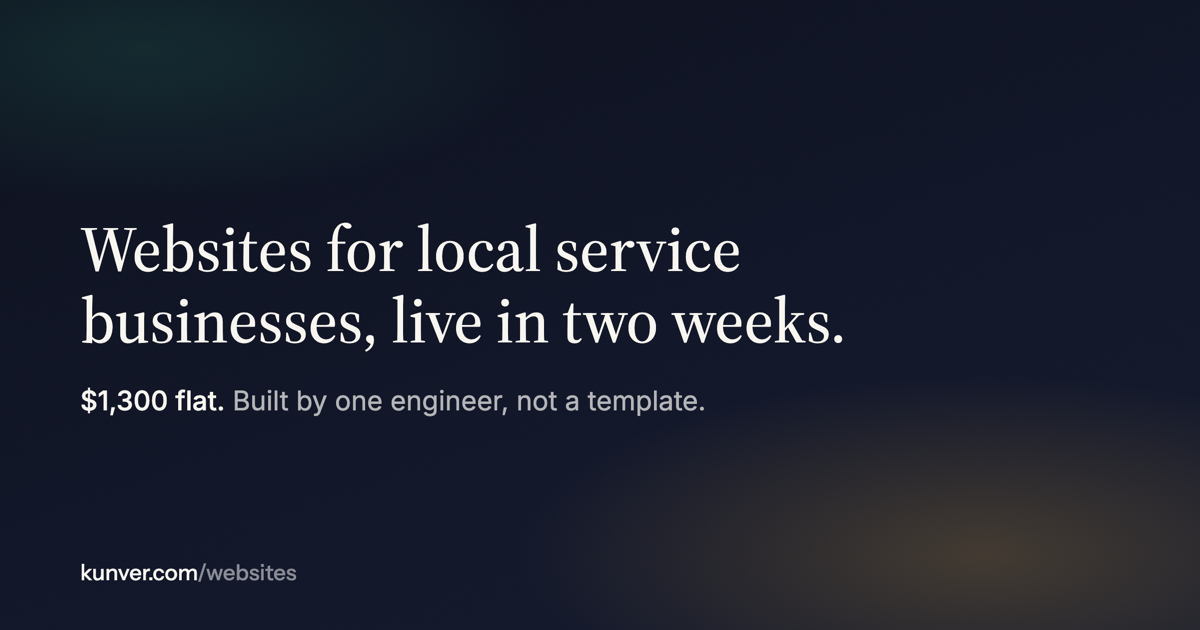
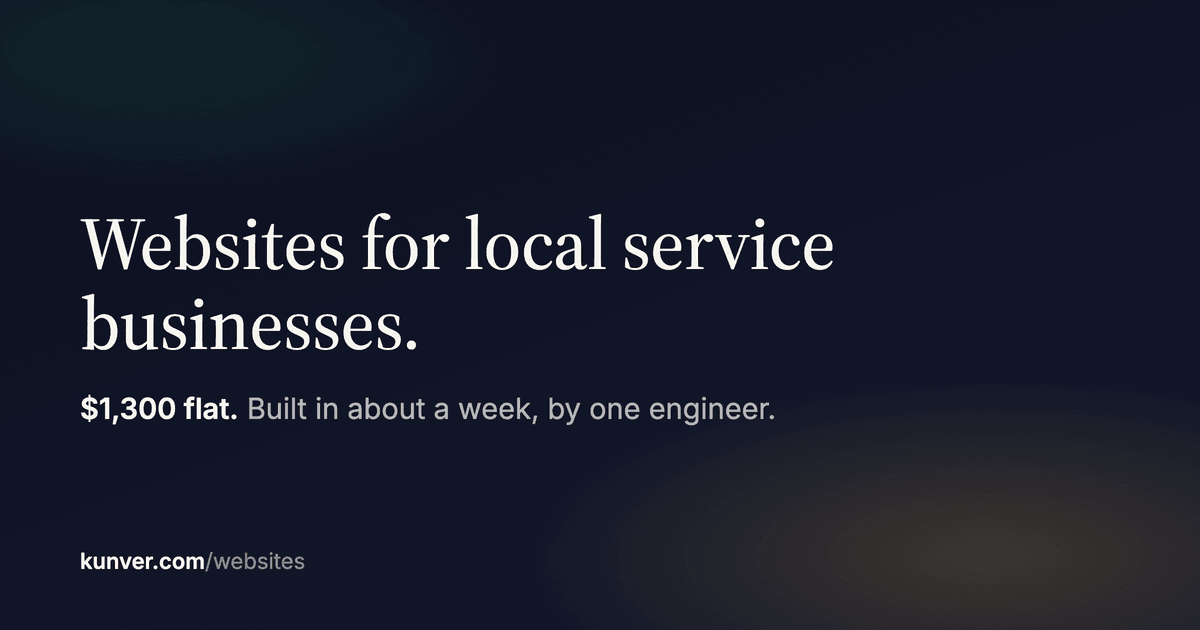
Regenerate the /websites OG image without the two-weeks claim
The claim was removed from every page and from the OG alt text, but it was
still rendered into og-websites.png, so every social share kept promising
it. The image was built by a throwaway script in /tmp, which is why there
was nothing in the repo to update when the copy changed.

The generator now lives in scripts/ with the compression folded in, so the
next copy change is one command instead of a rediscovery. Same design, new
subline carrying the build-time claim rather than a delivery date.

Also compresses the card from 593KB to 50KB.

Changed region(s): [[0.0617, 0.3317, 0.7092, 0.573], [0.0617, 0.6032, 0.6475, 0.6937], [0.0617, 0.8746, 0.2775, 0.9349]]

diff --git a/src/app/websites/layout.jsx b/src/app/websites/layout.jsx
@@ -13,7 +13,7 @@ export const metadata = {
     url: 'https://www.kunver.com/websites',
     type: 'website',
     siteName: 'Keshav Kunver',
-    images: [{ url: '/og-websites.png', width: 1200, height: 630, alt: 'Websites for local service businesses. $1,300 flat.' }],
+    images: [{ url: '/og-websites.png', width: 1200, height: 630, alt: 'Websites for local service businesses. $1,300 flat, built in about a week.' }],
   },
   twitter: {
     card: 'summary_large_image',

diff --git a/docs/ai/CURRENT_PLAN.md b/docs/ai/CURRENT_PLAN.md
@@ -555,3 +555,31 @@ not "directions", because the link is a location search rather than
 turn-by-turn navigation.
 
 Build passes, lint 0 errors, 0 em dashes, no overflow at 390 or 1440.
+
+
+## Round 15 (Claude, 2026-09-17): the OG image still said two weeks
+
+Keshav caught this. Rounds 5-9 removed the claim from every page and from the
+OG *alt text*, but public/og-websites.png had "live in two weeks" rendered
+into the pixels, so every social share still promised it.
+
+Root cause worth noting: the image was generated by a throwaway script in
+/tmp, so there was nothing in the repo to grep or update when the copy
+changed. The generator now lives at scripts/generate-og-websites.mjs with a
+header explaining why, and folds the compression step in so it is one command.
+
+New image: same Monument-under-aurora design (ink-indigo ground, teal glow
+upper-left, gold lower-right, Source Serif headline, Inter subline), headline
+"Websites for local service businesses." and subline "$1,300 flat. Built in
+about a week, by one engineer." The speed claim is the defensible build-time
+version from round 8, not a total-delivery promise.
+
+Also: the raw 2x screenshot was 593KB, heavy for a social card. Compressed to
+50KB at the correct 1200x630. Alt text updated to match the image.
+
+Checked the main og.png too: no timing claim, and its "Software Engineer
+building AI-powered products" line matches current positioning. Left alone.
+
+Build passes. The only remaining "two weeks" in the codebase is the FAQ
+conditional at config/websites.js:126, which is contingent on client response
+time rather than a promise.
